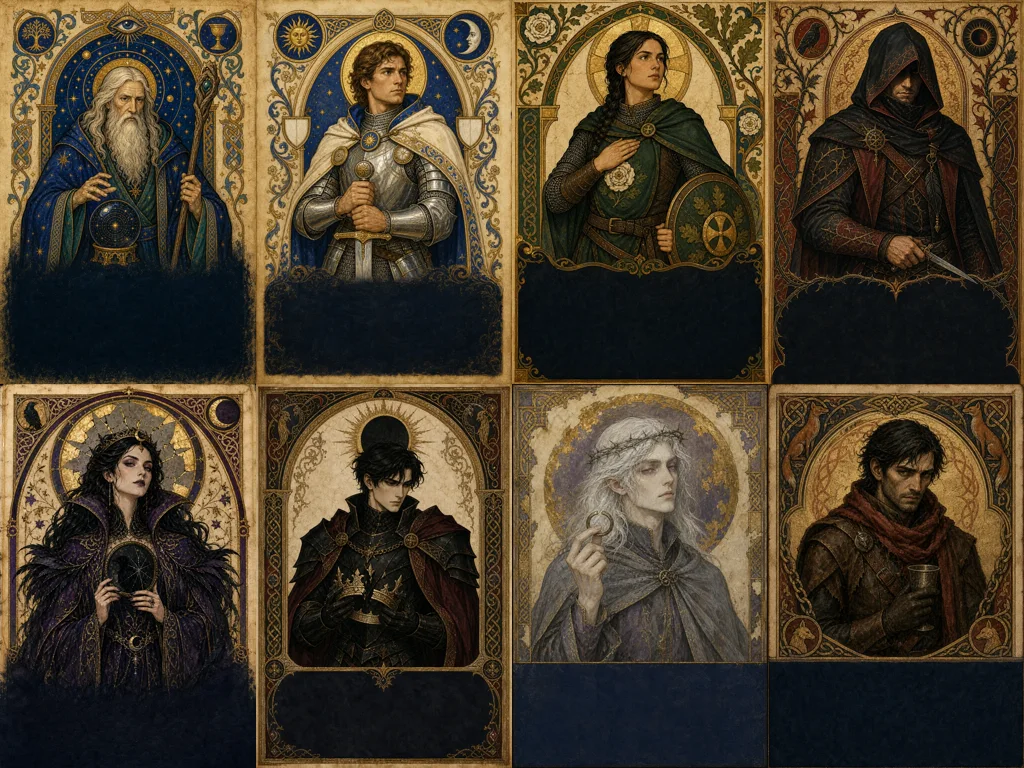
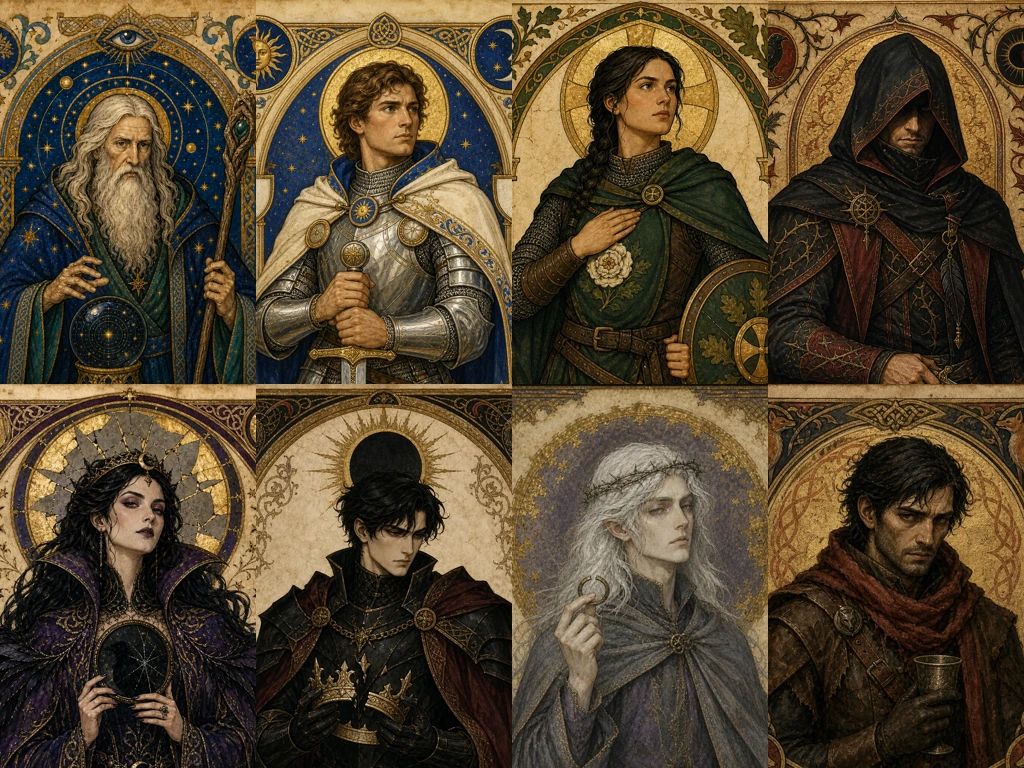
fix(avalon): unify royal codex card footer

diff --git a/frontend/src/components/ArtworkSkinPicker.vue b/frontend/src/components/ArtworkSkinPicker.vue
@@ -68,7 +68,11 @@ onBeforeUnmount(() => window.removeEventListener('keydown', handleEscape))
           <button type="button" aria-label="关闭画风大图预览" @click="closePreview"><X :size="20" /></button>
         </header>
         <div class="artwork-skin-gallery">
-          <article v-for="item in preview.items" :key="item.id">
+          <article
+            v-for="item in preview.items"
+            :key="item.id"
+            :data-artwork-treatment="item.framing.treatment"
+          >
             <img
               class="artwork-skin-art"
               :class="{ 'preserves-frame': item.framing.preserveFrame }"
@@ -138,6 +142,7 @@ onBeforeUnmount(() => window.removeEventListener('keydown', handleEscape))
 .artwork-skin-art.preserves-frame { transform: none; }
 .artwork-skin-inner-art { position: absolute; z-index: 1; inset: 0; pointer-events: none; transform: scale(var(--artwork-scale, 1)); transform-origin: var(--artwork-origin, 50% 50%); -webkit-mask-image: radial-gradient(ellipse 38% 42% at 50% 42%, #000 0 75%, rgba(0,0,0,.76) 84%, transparent 100%); mask-image: radial-gradient(ellipse 38% 42% at 50% 42%, #000 0 75%, rgba(0,0,0,.76) 84%, transparent 100%); }
 .artwork-skin-gallery article > div { position: absolute; z-index: 2; inset: auto 0 0; display: grid; justify-items: center; gap: 3px; min-height: 30%; align-content: end; padding: 34px 9px 13px; color: #f3f2e8; background: linear-gradient(transparent, rgba(2,9,10,.93) 50%, #02090a); text-align: center; }
+.artwork-skin-gallery article[data-artwork-treatment="codex-ink-wash"] > div { min-height: 44%; padding-top: 58px; background: linear-gradient(180deg, transparent 0%, rgba(7,18,27,.72) 14%, #07121b 28%, #02090a 100%); }
 .artwork-skin-gallery article small { color: #b9ccc7; font-size: 8px; font-weight: 800; letter-spacing: .1em; }
 .artwork-skin-gallery article strong { font-family: "Songti SC", "STSong", serif; font-size: clamp(15px, 1.8vw, 22px); }
 .artwork-skin-modal > footer { border-top: 1px solid var(--line); }

diff --git a/frontend/src/components/PressRevealCard.vue b/frontend/src/components/PressRevealCard.vue
@@ -58,6 +58,7 @@ function hide() {
       type="button"
       class="press-reveal-card"
       :class="{ illustrated: Boolean(artwork) }"
+      :data-artwork-treatment="artworkFraming.treatment"
       @pointerdown.prevent="reveal"
       @pointerup.prevent="hide"
       @pointercancel="hide"
@@ -124,6 +125,7 @@ function hide() {
 .press-reveal-art.preserves-frame { transform: none; }
 .press-reveal-inner-art { z-index: 0; object-fit: cover; pointer-events: none; transform: scale(var(--reveal-art-scale, 1)); transform-origin: var(--reveal-art-origin, 50% 50%); -webkit-mask-image: radial-gradient(ellipse 38% 42% at 50% 42%, #000 0 75%, rgba(0, 0, 0, .76) 84%, transparent 100%); mask-image: radial-gradient(ellipse 38% 42% at 50% 42%, #000 0 75%, rgba(0, 0, 0, .76) 84%, transparent 100%); }
 .press-reveal-shade { z-index: 1; background: linear-gradient(180deg, transparent 30%, rgba(3, 13, 15, .2) 49%, rgba(3, 13, 15, .94) 76%), linear-gradient(90deg, rgba(3, 13, 15, .16), transparent 26%, transparent 74%, rgba(3, 13, 15, .16)); }
+.press-reveal-card[data-artwork-treatment="codex-ink-wash"] .press-reveal-shade { background: linear-gradient(180deg, transparent 52%, rgba(7,18,27,.72) 62%, #07121b 68%, #02090a 100%), linear-gradient(90deg, rgba(3,13,15,.16), transparent 26%, transparent 74%, rgba(3,13,15,.16)); }
 .press-reveal-content.illustrated { align-content: end; min-height: inherit; padding: 58% 22px 23px; }
 .press-reveal-content.illustrated > svg { filter: drop-shadow(0 2px 7px rgba(0, 0, 0, .75)); }
 .press-reveal-content.illustrated > strong, .press-reveal-content.illustrated > span, .press-reveal-content.illustrated :deep(.secret-description), .press-reveal-content.illustrated :deep(.muted-secret) { text-shadow: 0 2px 9px rgba(0, 0, 0, .9); }

diff --git a/frontend/src/components/ArtworkSkinPicker.test.ts b/frontend/src/components/ArtworkSkinPicker.test.ts
@@ -4,7 +4,7 @@ import type { ArtworkSkinOption } from './uiTypes'
 
 const options: ArtworkSkinOption[] = [
   { id: 'classic', name: '经典', description: '清晰直观', tier: '基础', preview: '/classic.webp', items: [{ id: 'one', name: '角色一', group: '阵营一', artwork: '/one.webp', framing: { scale: 1, originXPercent: 50, originYPercent: 50 } }] },
-  { id: 'deluxe', name: '典藏', description: '精致画风', tier: '高级', preview: '/deluxe.webp', items: [{ id: 'two', name: '角色二', group: '阵营二', artwork: '/two.webp', framing: { scale: 1.1, originXPercent: 50, originYPercent: 29, preserveFrame: true } }] },
+  { id: 'deluxe', name: '典藏', description: '精致画风', tier: '高级', preview: '/deluxe.webp', items: [{ id: 'two', name: '角色二', group: '阵营二', artwork: '/two.webp', framing: { scale: 1.1, originXPercent: 50, originYPercent: 29, preserveFrame: true, treatment: 'codex-ink-wash' } }] },
 ]
 
 describe('ArtworkSkinPicker', () => {
@@ -16,6 +16,7 @@ describe('ArtworkSkinPicker', () => {
     expect(wrapper.emitted('update:modelValue')).toBeUndefined()
     expect(wrapper.get('.artwork-skin-modal').text()).toContain('典藏')
     expect(wrapper.get('.artwork-skin-gallery').text()).toContain('角色二')
+    expect(wrapper.get('.artwork-skin-gallery article').attributes('data-artwork-treatment')).toBe('codex-ink-wash')
     expect(wrapper.find('.artwork-skin-inner-art').exists()).toBe(true)
     await wrapper.get('.artwork-skin-modal footer button').trigger('click')
     expect(wrapper.emitted('update:modelValue')).toEqual([['deluxe']])

diff --git a/frontend/src/components/PressRevealCard.test.ts b/frontend/src/components/PressRevealCard.test.ts
@@ -20,13 +20,14 @@ describe('PressRevealCard', () => {
         title: '隐藏身份',
         artwork: '/role.webp',
         artworkLabel: '王庭秘卷',
-        artworkFraming: { scale: 1.16, originXPercent: 50, originYPercent: 29, preserveFrame: true },
+        artworkFraming: { scale: 1.16, originXPercent: 50, originYPercent: 29, preserveFrame: true, treatment: 'codex-ink-wash' },
       },
     })
 
     expect(wrapper.get('.press-reveal-art-label').text()).toContain('王庭秘卷')
     await wrapper.get('.press-reveal-card').trigger('pointerdown')
     expect(wrapper.get('.press-reveal-art').attributes('style')).toContain('--reveal-art-scale: 1.16')
+    expect(wrapper.get('.press-reveal-card').attributes('data-artwork-treatment')).toBe('codex-ink-wash')
     expect(wrapper.find('.press-reveal-inner-art').exists()).toBe(true)
   })
 })

diff --git a/frontend/src/gameRoleSkins.ts b/frontend/src/gameRoleSkins.ts
@@ -79,6 +79,7 @@ export interface RoleArtworkFraming {
   originXPercent: number
   originYPercent: number
   preserveFrame?: boolean
+  treatment?: 'codex-ink-wash'
 }
 
 export const ROLE_SKIN_STORAGE_KEY = 'avalon:role-skin'
@@ -291,8 +292,11 @@ export function roleArtworkFraming(
   if (!Object.prototype.hasOwnProperty.call(ROLE_ART[skin], roleCode)) {
     return DEFAULT_ROLE_ARTWORK_FRAMING
   }
-  return ROLE_ARTWORK_FRAMING[skin]?.[roleCode as AvalonRoleCode]
+  const framing = ROLE_ARTWORK_FRAMING[skin]?.[roleCode as AvalonRoleCode]
     ?? DEFAULT_ROLE_ARTWORK_FRAMING
+  return skin === 'royal-codex'
+    ? { ...framing, treatment: 'codex-ink-wash' }
+    : framing
 }
 
 export function roleArtwork(

diff --git a/frontend/src/gameRoleSkins.test.ts b/frontend/src/gameRoleSkins.test.ts
@@ -31,8 +31,12 @@ describe('Avalon role skin artwork framing', () => {
       originXPercent: 50,
       originYPercent: 50,
       preserveFrame: true,
+      treatment: 'codex-ink-wash',
     })
-    expect(roleArtworkFraming('percival', 'royal-codex').scale).toBe(1)
+    expect(roleArtworkFraming('percival', 'royal-codex')).toMatchObject({
+      scale: 1,
+      treatment: 'codex-ink-wash',
+    })
   })
 
   it('keeps the established ultimate heroes unchanged and corrects the oversized Assassin', () => {

diff --git a/frontend/src/components/uiTypes.ts b/frontend/src/components/uiTypes.ts
@@ -12,6 +12,7 @@ export interface RevealArtworkFraming {
   originXPercent: number
   originYPercent: number
   preserveFrame?: boolean
+  treatment?: 'codex-ink-wash'
 }
 
 export interface ArtworkSkinPreviewItem {
